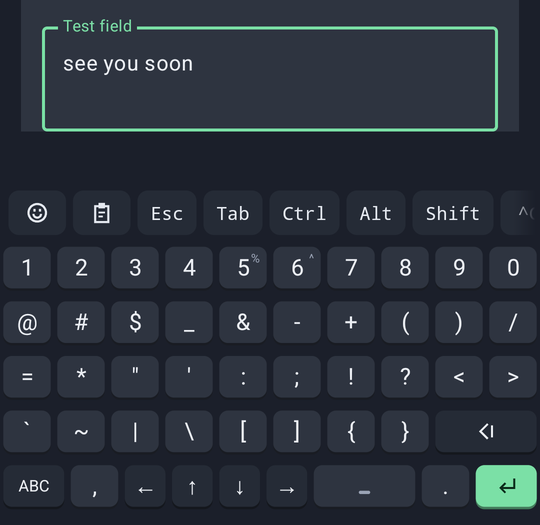
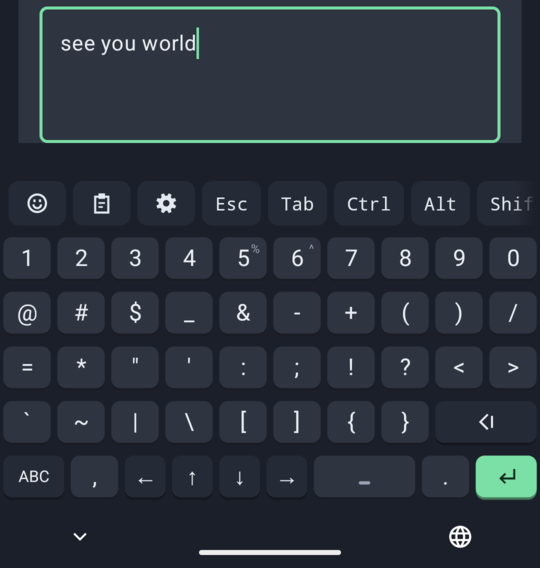
Screenshots retaken from the 0.5.4 release build, three new ones
Glide, suggestions, code mode, clipboard, emoji, one-handed, setup, settings and
appearance retaken on the emulator from the signed 0.5.4 build (the old ones showed
0.5.2 and a bar without the gear). New: the paste chip, the Day theme and the
Dictionaries page. The README table grows to four rows.

Claude-Session: https://claude.ai/code/session_01PEB9TZ613mdLMxgXnrAFvE

diff --git a/README.md b/README.md
@@ -42,14 +42,18 @@ An Android keyboard (IME) for developers, written in Kotlin.
 
 ## Screenshots
 
+All taken from the 0.5.4 release build on Android 16.
+
 | | | |
 |---|---|---|
-| <img src="docs/screenshots/suggestions.png" width="270" alt="Suggestions after a space"> | <img src="docs/screenshots/glide.png" width="270" alt="Gliding with the trail and a live preview"> | <img src="docs/screenshots/code-mode.png" width="270" alt="Code mode"> |
-| Next-word suggestions from the whole sentence | Glide typing: the trail, and the word read before you lift | Code mode: every symbol on one page |
-| <img src="docs/screenshots/emoji.png" width="270" alt="Emoji panel"> | <img src="docs/screenshots/clipboard.png" width="270" alt="Clipboard history"> | <img src="docs/screenshots/settings.png" width="180" alt="Settings"> |
-| The emoji panel, from the terminal bar | Clipboard history with pins and pictures | Settings: every page at a glance (Night theme) |
-| <img src="docs/screenshots/setup.png" width="180" alt="Setup"> | <img src="docs/screenshots/one-handed.png" width="180" alt="One-handed mode"> | <img src="docs/screenshots/appearance.png" width="180" alt="Appearance settings"> |
-| Setup in three steps, with a field to try it | One-handed mode, docked left | Appearance: themes, height, one-handed mode |
+| <img src="docs/screenshots/glide.png" width="270" alt="Gliding with the trail and a live preview"> | <img src="docs/screenshots/suggestions.png" width="270" alt="Next-word suggestions after a space"> | <img src="docs/screenshots/code-mode.png" width="270" alt="Code mode"> |
+| Glide typing: the trail, and the word read before you lift | Next-word suggestions from the whole sentence | Code mode: every symbol on one page, under the terminal bar |
+| <img src="docs/screenshots/clipboard.png" width="270" alt="Clipboard history"> | <img src="docs/screenshots/paste-chip.png" width="270" alt="Paste chip for a recent copy"> | <img src="docs/screenshots/emoji.png" width="270" alt="Emoji panel"> |
+| Clipboard history with pins | A chip offers what you just copied | The emoji panel, from the terminal bar |
+| <img src="docs/screenshots/one-handed.png" width="270" alt="One-handed mode"> | <img src="docs/screenshots/day-theme.png" width="270" alt="The Day theme"> | <img src="docs/screenshots/setup.png" width="180" alt="Setup"> |
+| One-handed mode, docked left | The Day theme, one of twelve | Setup in three steps, with a field to try it |
+| <img src="docs/screenshots/settings.png" width="180" alt="Settings"> | <img src="docs/screenshots/dictionaries.png" width="180" alt="Dictionaries"> | <img src="docs/screenshots/appearance.png" width="180" alt="Appearance settings"> |
+| Settings: every page at a glance | Dictionaries: packs to turn on or off, and your own lists | Appearance: themes, height, one-handed mode |
 
 ## Build and install
 
